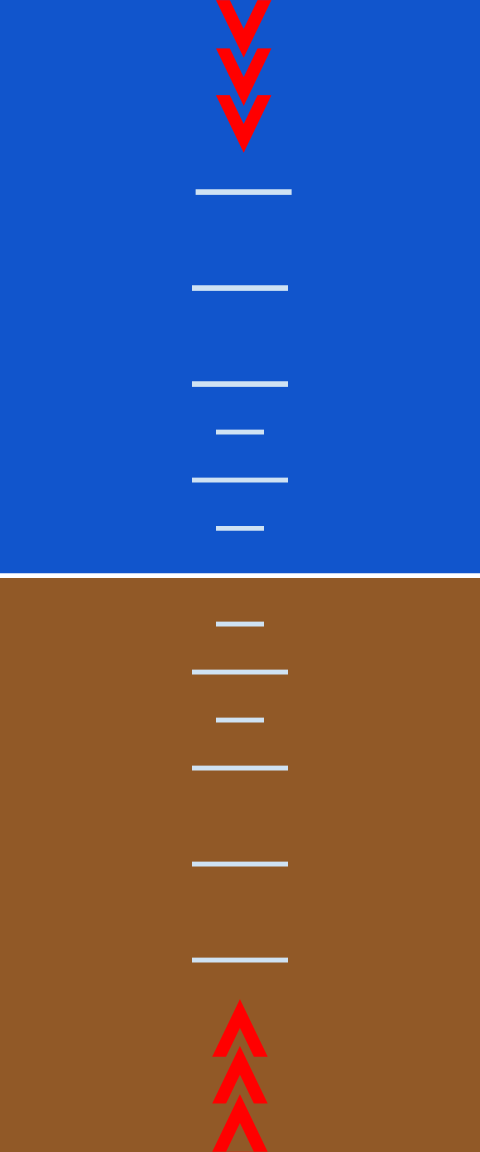
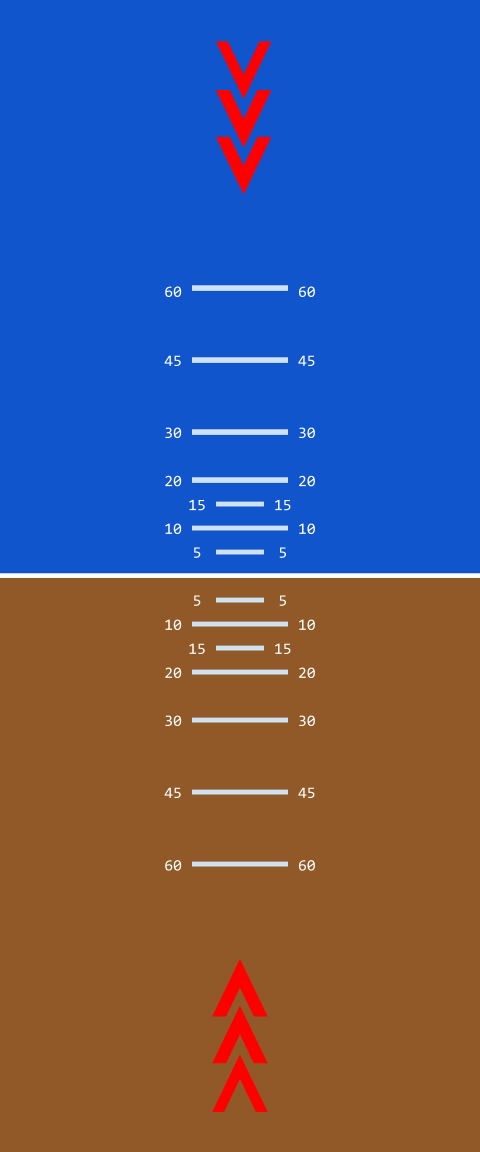
All the displays work now

diff --git a/classes.py b/classes.py
@@ -23,7 +23,6 @@ class Instrument():
         img = self.get_rimg()
         x = int(self.x-(img.get_width())/2)
         y = int(self.y-(img.get_height())/2)
-        pygame.draw.rect(self.screen,(33,28,10),(x-50,y-50,self.width+100,self.height+100))
         self.screen.blit(img,(x,y))
         self.screen.blit(self.statimg,(self.x-self.statimg.get_width()/2,self.y-self.statimg.get_height()/2))
 
@@ -35,4 +34,10 @@ class Horizon(Instrument):
 
     def display(self):
         super(Horizon,self).display()
+        x = int(self.x-self.statimg.get_width()/2)
+        y = int(self.y-self.statimg.get_height()/2)
         self.screen.blit(self.border,(self.x-self.border.get_width()/2,self.y-self.border.get_height()/2))
+        pygame.draw.rect(self.screen,(198,149,63),(x-500,y-500,self.statimg.get_width()+500,500))
+        pygame.draw.rect(self.screen,(198,149,63),(x+self.statimg.get_width(),y-500,500,self.statimg.get_height()+500))
+        pygame.draw.rect(self.screen,(198,149,63),(x,y+self.statimg.get_height(),self.statimg.get_width()+500,500))
+        pygame.draw.rect(self.screen,(198,149,63),(x-500,y,500,self.statimg.get_height()+500))

diff --git a/config.py b/config.py
@@ -5,13 +5,13 @@ pygame.init()
 
 headingMove = pygame.image.load('images/headingdial.png')
 headingStatic = pygame.image.load('images/headingref.png')
-headingMove = pygame.transform.scale(headingMove,(400,400))
-headingStatic = pygame.transform.scale(headingStatic,(400,400))
+headingMove = pygame.transform.scale(headingMove,(350,350))
+headingStatic = pygame.transform.scale(headingStatic,(500,500))
 
 attitudeMove = pygame.image.load('images/attitudebkgd.png')
 attitudeStatic = pygame.image.load('images/attituderef.png')
 attitudeBorder = pygame.image.load('images/attitudeborder.png')
 attitudeMove = pygame.transform.scale(attitudeMove,(400,960))
 attitudeStatic = pygame.transform.scale(attitudeStatic,(500,500))
-attitudeBorder = pygame.transform.scale(attitudeBorder,(400,400))
+attitudeBorder = pygame.transform.scale(attitudeBorder,(420,420))
 

diff --git a/FlyPi.py b/FlyPi.py
@@ -24,8 +24,8 @@ while not crashed:
             if pygame.key.get_pressed()[K_ESCAPE]:
                 crashed = True
     screen.fill(bkgd)
-    heading.display()
     attitude.display()
+    heading.display()
     pygame.display.update()
     clock.tick(60)
 
